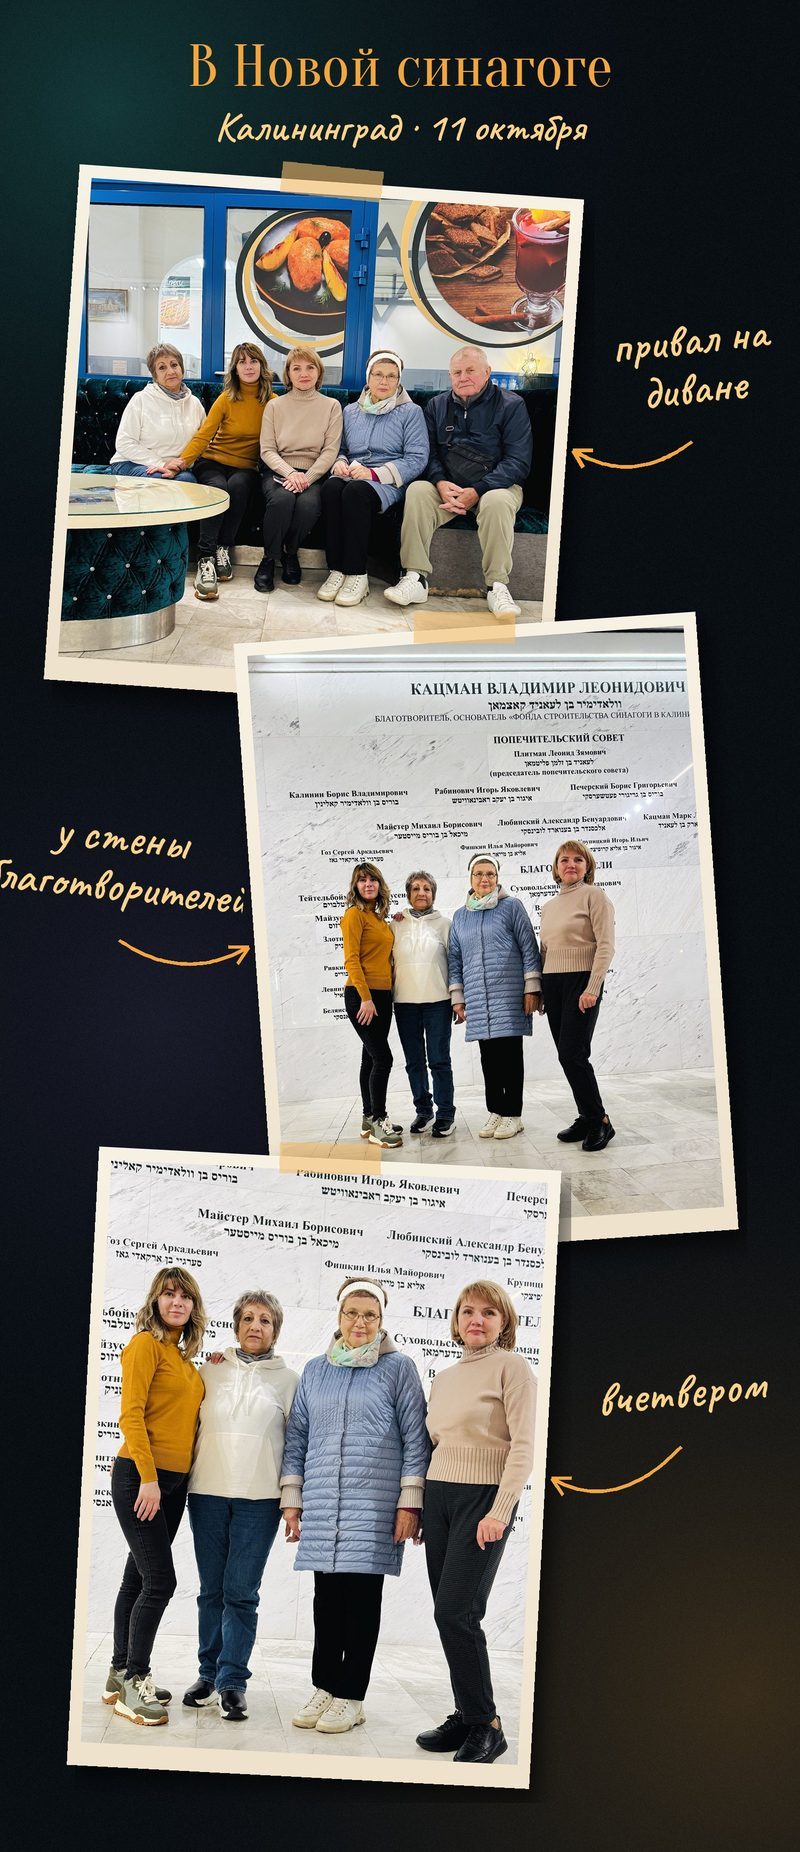
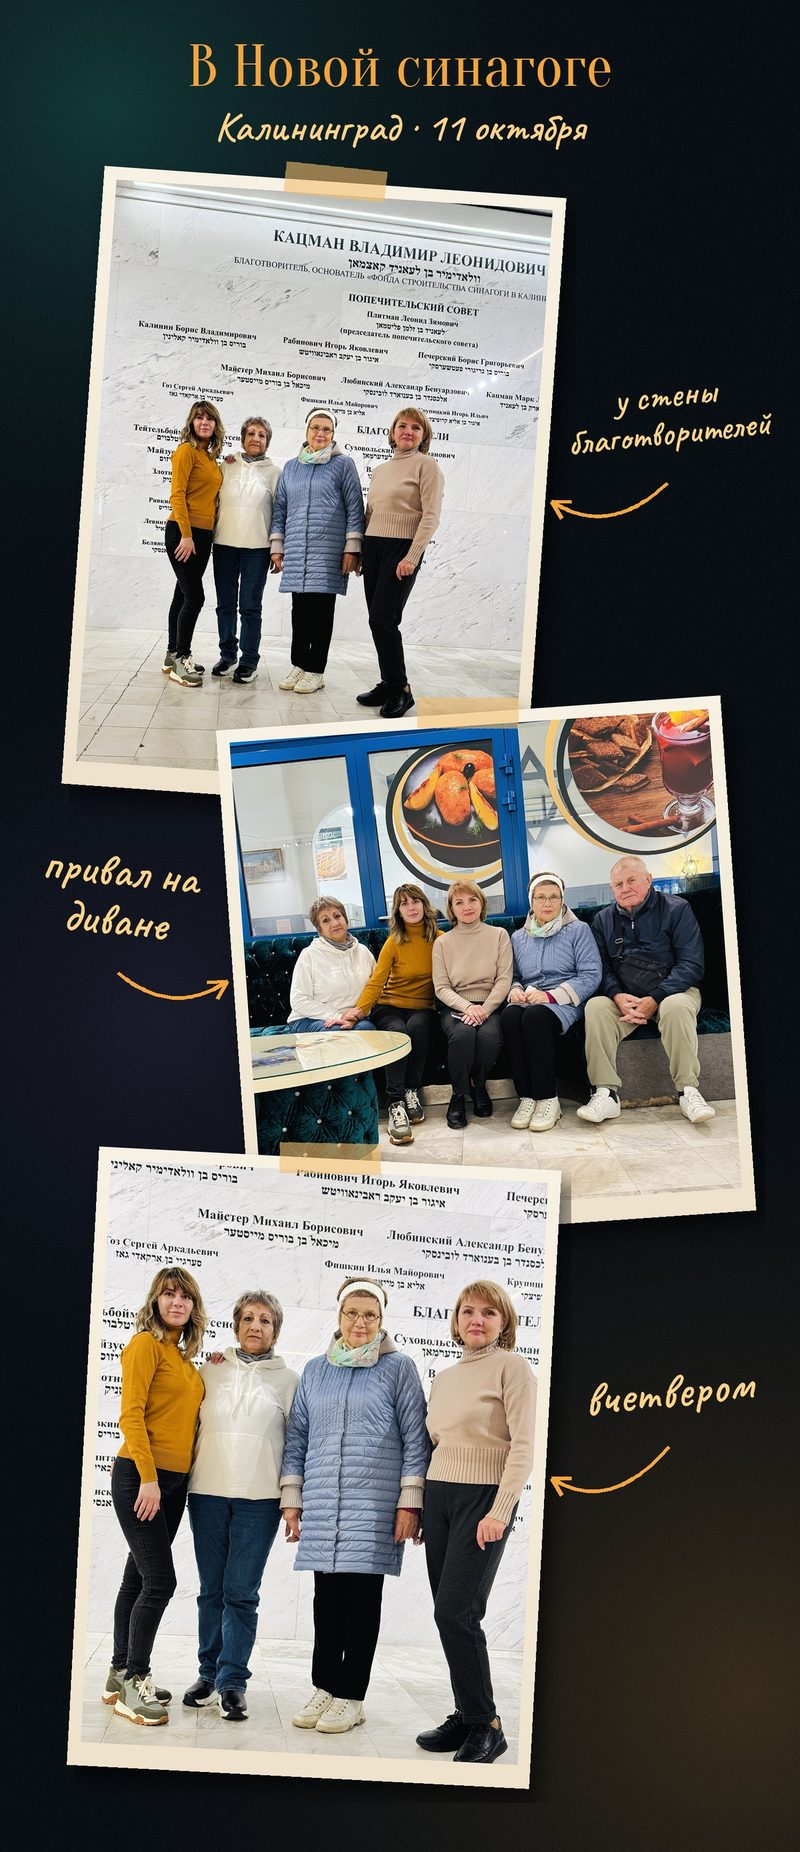
Альбом «Калининград»: страница «В Новой синагоге» — привал на диване в центре
По просьбе: сверху «у стены благотворителей», в центре «привал на диване», снизу «вчетвером».
collage.py: подпись с длинным словом пишется мельче и не обрезается краем страницы.

Claude-Session: https://claude.ai/code/session_01BUmNQ2Kk9fTi5P6tnA3gYJ

diff --git a/kaliningrad/album/index.html b/kaliningrad/album/index.html
@@ -669,7 +669,7 @@ body.picking .wrap{padding-bottom:calc(var(--nav-h) + 230px + env(safe-area-inse
  {"id": "d1-81", "day": 1, "src": "photos/d1-81.jpg", "thumb": "photos/t/d1-81.jpg", "w": 1200, "h": 2906, "town": "kgd", "title": "Селфи с мамулей", "date": "2026-10-11", "collage": true},
  {"id": "d1-52", "day": 1, "src": "photos/d1-52.jpg", "thumb": "photos/t/d1-52.jpg", "w": 1500, "h": 2000, "town": "kgd", "title": "Памятная монета «Калининград»", "date": "2026-10-11"},
  {"id": "d1-58", "day": 1, "src": "photos/d1-58.jpg", "thumb": "photos/t/d1-58.jpg", "w": 1500, "h": 2000, "town": "kgd", "title": "Ресторан «Хофбург»", "date": "2026-10-11"},
- {"id": "d1-83", "day": 1, "src": "photos/d1-83.jpg", "thumb": "photos/t/d1-83.jpg", "w": 1200, "h": 2778, "place": "sinag", "title": "В Новой синагоге", "date": "2026-10-11", "collage": true},
+ {"id": "d1-83", "day": 1, "src": "photos/d1-83.jpg?v=2", "thumb": "photos/t/d1-83.jpg?v=2", "w": 1200, "h": 2778, "place": "sinag", "title": "В Новой синагоге", "date": "2026-10-11", "collage": true},
  {"id": "d1-84", "day": 1, "src": "photos/d1-84.jpg", "thumb": "photos/t/d1-84.jpg", "w": 1200, "h": 2906, "place": "sinag", "title": "Синагога внутри", "date": "2026-10-11", "collage": true},
  {"id": "d1-67", "day": 1, "type": "video", "src": "photos/d1-67.mp4", "poster": "photos/d1-67.jpg", "thumb": "photos/t/d1-67.jpg", "w": 720, "h": 1280, "dur": 6.4, "town": "svg", "title": "Балтийское море в Светлогорске", "date": "2026-10-11", "sea": true, "film": false},
  {"id": "d2-80", "day": 2, "src": "photos/d2-80.jpg", "thumb": "photos/t/d2-80.jpg", "w": 1200, "h": 2452, "place": "neuh", "title": "Замок Нойхаузен", "date": "2026-10-12", "collage": true},

diff --git a/kaliningrad/album/tools/collage.py b/kaliningrad/album/tools/collage.py
@@ -96,15 +96,19 @@ def wrap(draw, text, font, width):
 
 def note(bg, text, cx, cy, width, ang, arrow_to):
     """Подпись от руки на свободном месте и нарисованная стрелка к фото."""
-    font = ImageFont.truetype(HAND, 86)
     d = ImageDraw.Draw(bg)
+    size = 86  # длинное слово («благотворителей») не влезает — пишем мельче, чтобы не обрезалось краем страницы
+    while size > 56 and max(d.textlength(w, font=ImageFont.truetype(HAND, size)) for w in text.split()) > width:
+        size -= 4
+    font = ImageFont.truetype(HAND, size)
     lines = wrap(d, text, font, width)
-    lh = 92
+    lh = round(size * 1.07)
     layer = Image.new("RGBA", (width + 80, lh * len(lines) + 40), (0, 0, 0, 0))
     ld = ImageDraw.Draw(layer)
     for i, ln in enumerate(lines):
         ld.text(((layer.width - ld.textlength(ln, font=font)) / 2, 10 + i * lh), ln, font=font, fill=AMBER2)
     layer = layer.rotate(ang, expand=True, resample=Image.BICUBIC)
+    cx = min(max(cx, layer.width // 2), bg.width - layer.width // 2)
     base = bg.convert("RGBA")
     base.alpha_composite(layer, (cx - layer.width // 2, cy - layer.height // 2))
     bg = base.convert("RGB")
